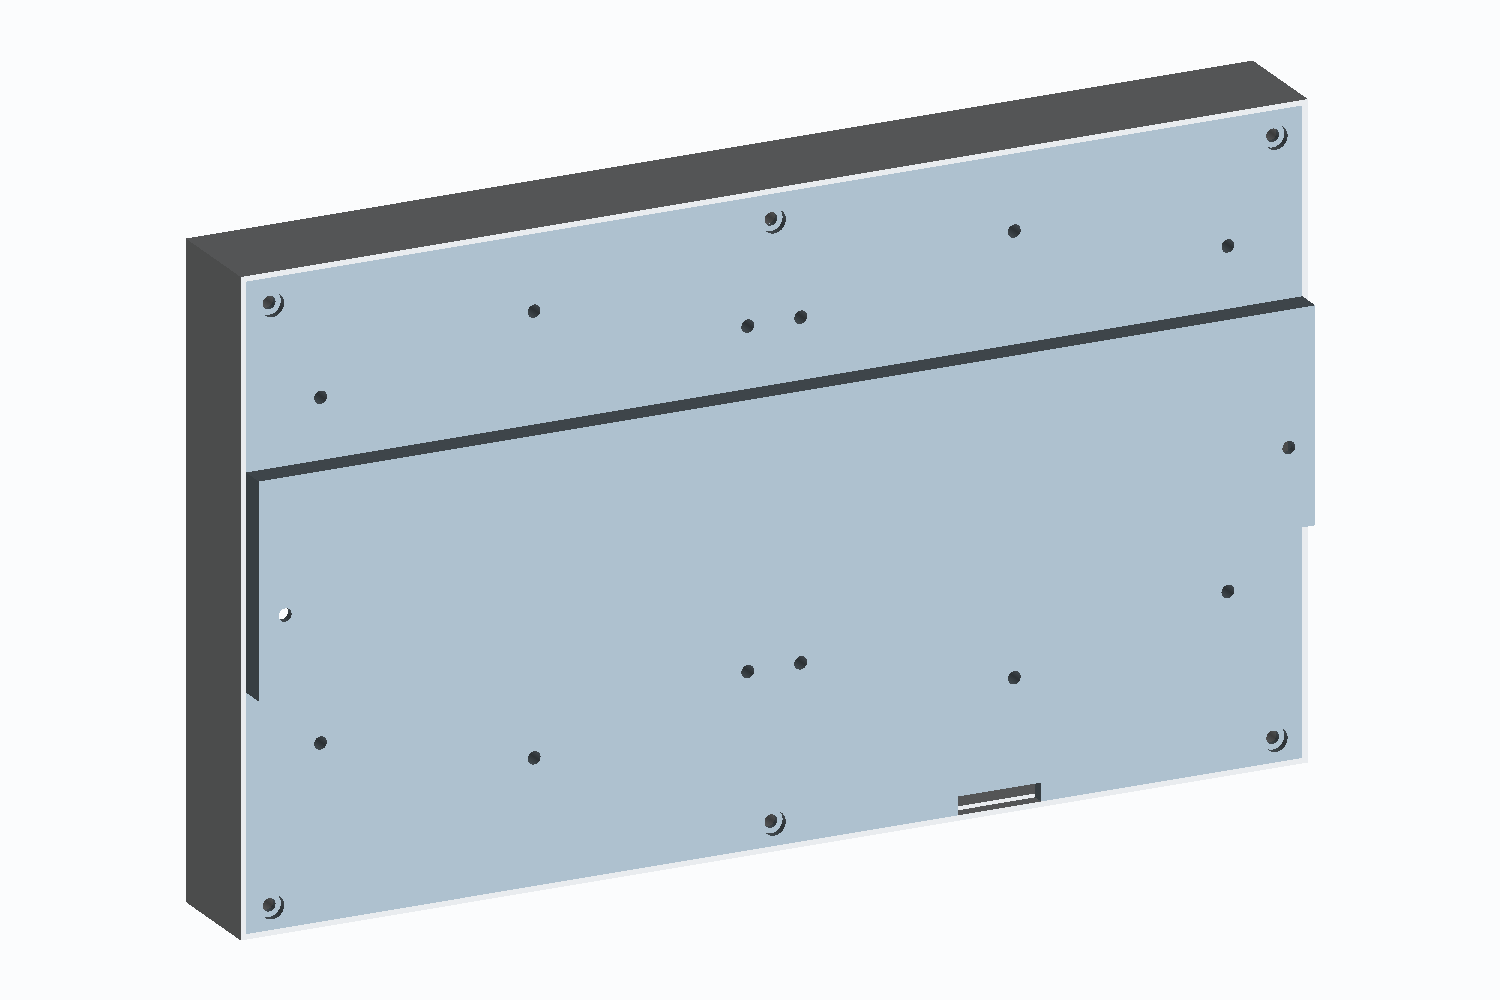
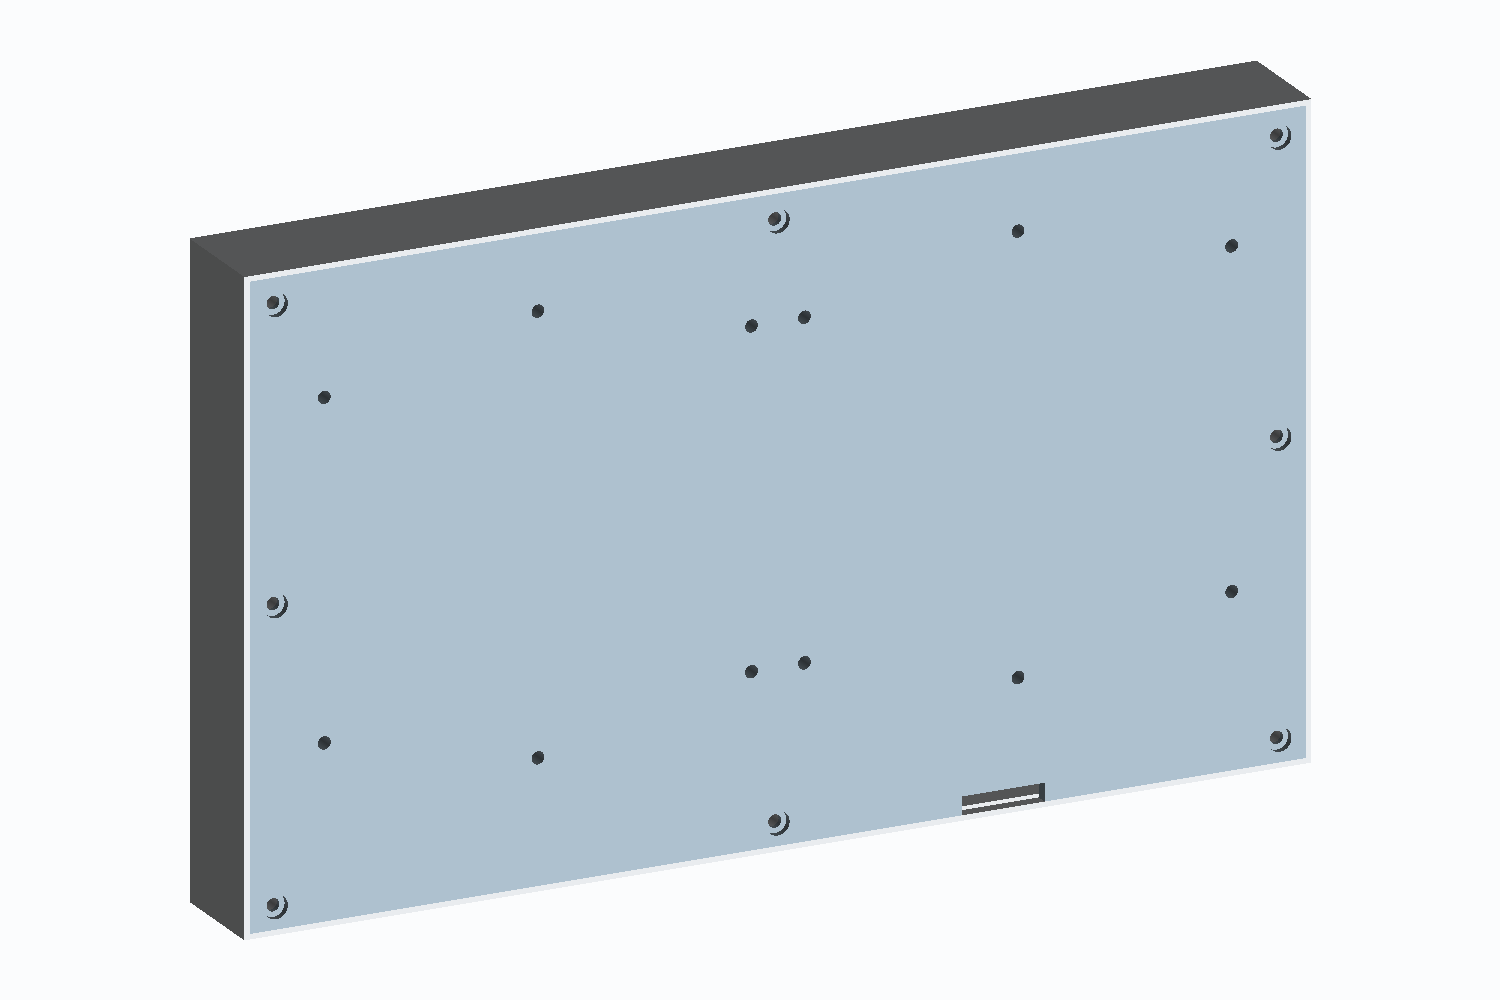
enclosure: flat back — the relief was built on a bad reading
The raised band across the back wall came from adding 15 mm of module to a
9 mm connector height, as if the shells stood on top of a finished module.
They stand inside it: the moulded frame on the factory drawing is the housing
over the electronics, and the soldered shells are already within its 15 mm.
The profile bears this out — the bulk of the frame is 12 mm deep and only a
single feature reaches 15.

What actually has to fit the cavity is how far the mated ribbon stands proud
of the module, which is a much smaller number and a different measurement.
Renamed the parameters to say that, and at the working figure the cover comes
out flat.

relief_depth() stays. If the measurement comes back larger than the 10.5 mm
cavity the relief returns by itself and shows up on the sheets, which is why
the depth is computed rather than drawn.

diff --git a/enclosure/cad/case_c_lib.py b/enclosure/cad/case_c_lib.py
@@ -66,11 +66,18 @@ PERIM_OFFSETS = [3.9, 23.9, 39.9, 59.9, 67.9, 87.9, 103.9, 123.9]
 # Разъёмы: чертёж не размеряет ни посадочные места, ни высоты.
 CONN_H = P(9.0, MEAS, "высота колодки HUB75 над задней плоскостью — не размерена")
 VH4_H = P(7.0, MEAS, "высота колодки питания — не размерена")
-# Считать надо не колодку, а колодку С НАДЕТЫМ ответным разъёмом: розетка IDC
-# охватывает вилку сверху и добавляет к ней свою высоту. Это и есть размер,
-# определяющий глубину корпуса.
-CONN_STACK = P(16.0, MEAS, "колодка HUB75 с надетым шлейфом — ГЛАВНЫЙ размер на обмер")
-VH4_STACK = P(12.0, MEAS, "колодка питания с надетым разъёмом")
+# Мерить надо не «высоту колодки над платой», а насколько надетый шлейф
+# ВЫСТУПАЕТ ЗА ГАБАРИТ МОДУЛЯ. Это разные вещи, и первая версия здесь была
+# неверной: я складывал 15 мм модуля с высотой колодки, как будто колодка
+# стоит поверх готового модуля. Она стоит внутри него — литая рамка на
+# чертеже это и есть кожух над электроникой, распаянные колодки в её
+# габарит уже входят. Профиль рамки: основная масса 12 мм, дальше до 15
+# выходит лишь одиночный элемент.
+#
+# Значит за габарит выступает только ответная часть — розетка шлейфа,
+# надетая на вилку, — и ровно эту величину надо обмерить.
+CONN_PROUD = P(5.0, MEAS, "на сколько надетый шлейф HUB75 выступает ЗА габарит модуля")
+VH4_PROUD = P(3.0, MEAS, "то же для разъёма питания")
 
 # ---------------------------------------------------------- активное поле
 PANELS_N = 2
@@ -205,8 +212,14 @@ RELIEF_MARGIN = P(1.5, SPEC, "запас над разъёмом")
 
 
 def relief_depth():
-    """На сколько прилив должен выйти за заднюю плоскость корпуса."""
-    need = max(float(CONN_STACK), float(VH4_STACK)) + float(RELIEF_MARGIN)
+    """На сколько прилив должен выйти за заднюю плоскость корпуса.
+
+    Ноль, если выступающая часть разъёмов укладывается в полость за модулем —
+    и при нынешних числах это так: прилив не нужен, крышка ровная. Функция
+    оставлена, потому что до обмера это не факт: вырастет CONN_PROUD выше
+    полости — прилив появится сам, и на листах он будет виден.
+    """
+    need = max(float(CONN_PROUD), float(VH4_PROUD)) + float(RELIEF_MARGIN)
     return max(0.0, need - float(CAVITY_BEHIND))
 
 

diff --git a/enclosure/cad/verify.py b/enclosure/cad/verify.py
@@ -92,11 +92,14 @@ def main():
 
     print("\n=== 3. полость за матрицей ===")
     cav = float(L.CAVITY_BEHIND)
-    cav_relief = cav + L.relief_depth()
-    print(f"  полость ровная: {cav:.2f}   в полосе прилива: {cav_relief:.2f}")
+    dz = L.relief_depth()
+    cav_relief = cav + dz
+    print(f"  полость за модулем: {cav:.2f}"
+          + (f"   в полосе прилива: {cav_relief:.2f}" if dz > 0
+             else "   прилив не нужен, крышка ровная"))
     for nm, need, in_relief in (
-            ("колодка HUB75 с надетым шлейфом", float(L.CONN_STACK), True),
-            ("колодка питания с разъёмом", float(L.VH4_STACK), True),
+            ("выступ шлейфа HUB75 за модуль", float(L.CONN_PROUD), True),
+            ("выступ разъёма питания", float(L.VH4_PROUD), True),
             ("плата контроллера", float(L.CTRL_T), False)):
         have = cav_relief if in_relief else cav
         ok = need <= have

diff --git a/enclosure/cad/README.md b/enclosure/cad/README.md
@@ -58,6 +58,23 @@ of plate, and deeper down the window is already narrow, leaving about 12 mm betw
 edge and the wall. The bosses grow from the back of the plate into exactly that band —
 2.3 mm clear of the window and 2.3 mm clear of the wall, which `verify.py` checks.
 
+## The back is flat — no relief
+
+An earlier version put a raised band across the back wall for the connectors. It came out
+of a mistake: I added 15 mm of module to a 9 mm connector height, as if the shells stood
+on top of a finished module. They stand *inside* it. The moulded frame on the factory
+drawing **is** the housing over the electronics, and the soldered shells are already
+within its 15 mm — the profile shows the bulk of that frame at 12 mm, with only a single
+feature reaching 15.
+
+So the number to measure is not connector height, it is **how far the mated ribbon stands
+proud of the module**, and only that has to fit the 10.5 mm cavity. At the working figure
+it fits with room to spare, `relief_depth()` returns zero, and the cover is flat.
+
+The function stays in place. If the measurement comes back larger than the cavity, the
+relief reappears on its own and shows up on the sheets — that is the point of keeping the
+depth a computed value rather than a drawn feature.
+
 ## How the panels are located
 
 Screws through the M3 grid hold the panels *down*; they do not decide *where* the panels
